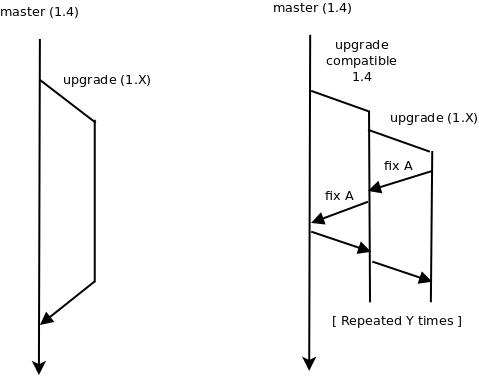
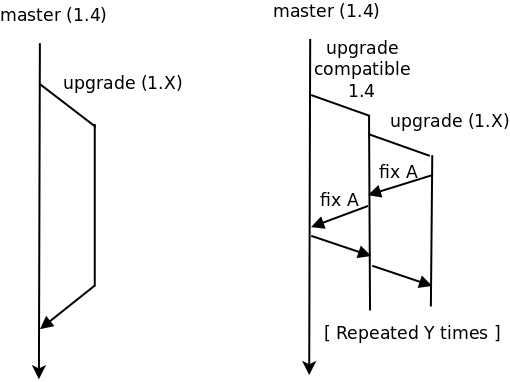
Update process slide and increate font size in gitflow chart for django upgrade presentation

diff --git a/django_upgrade/index.html b/django_upgrade/index.html
@@ -68,12 +68,13 @@
             <section>
                 <h2>Process</h2>
                 <ul>
-                    <li>One version a time (1.5, 1.6, 1.7, 1.8, 1.9)</li>
-                    <li>Read Django release notes</li>
-                    <li>Create env with new Django version</li>
-                    <li>Run tests</li>
-                    <li>Fix each issue</li>
-                    <li>Manual testing</li>
+                    <li>For each Django version (1.5, 1.6, ...):</li>
+                    <ul>
+                        <li>Read Django release notes</li>
+                        <li>Run automatic tests</li>
+                        <li>Do manual testing</li>
+                        <li>Fix each issue</li>
+                    </ul>
                 </ul>
             </section>
             <section>
@@ -97,30 +98,6 @@
                 <h2>Example 1</h2>
                 <pre>
                     <code>
-# compat/db.py
-from django.db import transaction
-
-if django.VERSION < (1, 6):
-    atomic_compat_transaction = transaction.commit_on_success
-else:
-    atomic_compat_transaction = transaction.atomic
-                    </code>
-                </pre>
-                <pre>
-                    <code>
-# your_app/views.py
-from compat.db import atomic_compat_transaction
-
-@atomic_compat_transaction
-def your_view(request):
-    # Your view code here
-                    </code>
-                </pre>
-            </section>
-            <section>
-                <h2>Example 2</h2>
-                <pre>
-                    <code>
 # compat/fields.py
 
 if django.VERSION < (1, 8):
@@ -141,6 +118,30 @@ class YourForm(forms.ModelForm):
         fields = ALL_FIELDS
                 </code>
             </pre>
+            </section>
+            <section>
+                <h2>Example 2</h2>
+                <pre>
+                    <code>
+# compat/db.py
+from django.db import transaction
+
+if django.VERSION < (1, 6):
+    atomic_compat_transaction = transaction.commit_on_success
+else:
+    atomic_compat_transaction = transaction.atomic
+                    </code>
+                </pre>
+                <pre>
+                    <code>
+# your_app/views.py
+from compat.db import atomic_compat_transaction
+
+@atomic_compat_transaction
+def your_view(request):
+    # Your view code here
+                    </code>
+                </pre>
             </section>
         </section>
         <section>
